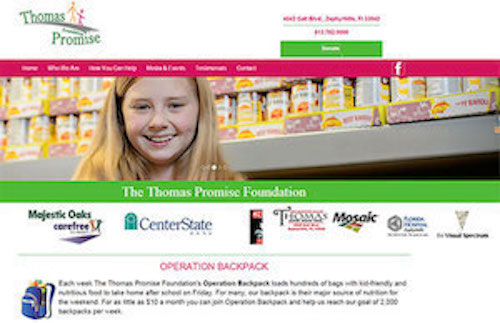
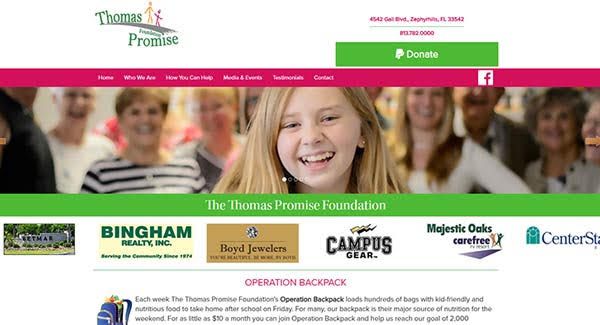
made animation mixin

diff --git a/src/styles/intro.scss b/src/styles/intro.scss
@@ -1,8 +1,9 @@
 .introContainer {
   display: grid;
-  grid-auto-rows: 1fr 2fr 1fr;
-  width: 100%;
-  height: 100vh;
+  grid-template-areas:
+    "space1 space1 space1"
+    "space intro space"
+    "space space space";
 }
 
 h2.hello {
@@ -10,19 +11,17 @@ h2.hello {
   line-height: 2em;
   text-align: center;
   text-shadow: 2px 4px 2px rgb(29, 30, 34);
-  animation-name: fadeIn;
-  animation-duration: 3s;
-  animation-iteration-count: 1;
+
+  @include animation;
 }
 
 .introBox {
+  grid-area: intro;
   display: flex;
   flex-direction: column;
   align-items: center;
-  animation-name: fadeIn;
-  animation-duration: 3s;
-  animation-iteration-count: 1;
-  grid-row: 2;
+
+  @include animation;
 
   img {
     border-radius: 50%;

diff --git a/src/styles/nav.scss b/src/styles/nav.scss
@@ -3,6 +3,7 @@ ul.navLinks {
   background-color: rgb(57, 63, 77);
   padding: 0.5em;
   display: grid;
+  // justify-content: space-around;
   grid-template-columns: repeat(auto-fit, minmax(50px, 1fr));
   border-bottom: 1px solid darken($golden, 10%);
   list-style: none;
@@ -14,12 +15,12 @@ li.navBtn {
   margin: 5px;
   padding: 5px;
   font-family: $heading-font-fam;
+  text-align: center;
   transition: 0.5s;
 }
 
 a {
   color: $golden;
-  align-self: center;
 }
 
 a:link {

diff --git a/public/200.html b/public/200.html
@@ -21,5 +21,5 @@
       </svg>
     </div>
   </div>
-<script type="text/javascript" src="/vendor-ecdbf189c446382c91e0.js"></script><script type="text/javascript" src="/app-ecdbf189c446382c91e0.js"></script></body>
+<script type="text/javascript" src="/vendor-cfe915e0549487edf4e6.js"></script><script type="text/javascript" src="/app-cfe915e0549487edf4e6.js"></script></body>
 </html>

diff --git a/src/styles/resume.scss b/src/styles/resume.scss
@@ -5,15 +5,14 @@
   justify-content: flex-start;
   margin: 30px;
   background-color: white;
-  animation-name: fadeIn;
-  animation-duration: 3s;
-  animation-iteration-count: 1;
+
+  @include animation;
 
   a {
     color: rgb(127, 236, 172);
     font-style: italic;
-
   }
+
   li,
   p,
   span {

diff --git a/src/styles/_utility.scss b/src/styles/_utility.scss
@@ -15,6 +15,12 @@ $pageAnimation: fadeIn 1s linear;
   justify-content: center;
 }
 
+@mixin animation {
+  animation-name: fadeIn;
+  animation-duration: 3s;
+  animation-iteration-count: 1;
+}
+
 // Remove the browsers built-in styling for lists elements.
 @mixin reset-list {
   padding-left: 0;

diff --git a/src/styles/contact.scss b/src/styles/contact.scss
@@ -1,11 +1,10 @@
 .contactWrapper {
   display: flex;
   flex-direction: column;
-  animation-name: fadeIn;
-  animation-duration: 3s;
-  animation-iteration-count: 1;
   position: fixed;
   bottom: 15%;
+
+  @include animation;
 }
 
 .me22017 {

diff --git a/src/styles/screen.scss b/src/styles/screen.scss
@@ -70,6 +70,8 @@ body {
   margin: 25px;
   box-shadow: 10px 10px 10px 3px #333;
   max-width: 800px;
+
+  @include animation;
 }
 
 .item-img {
